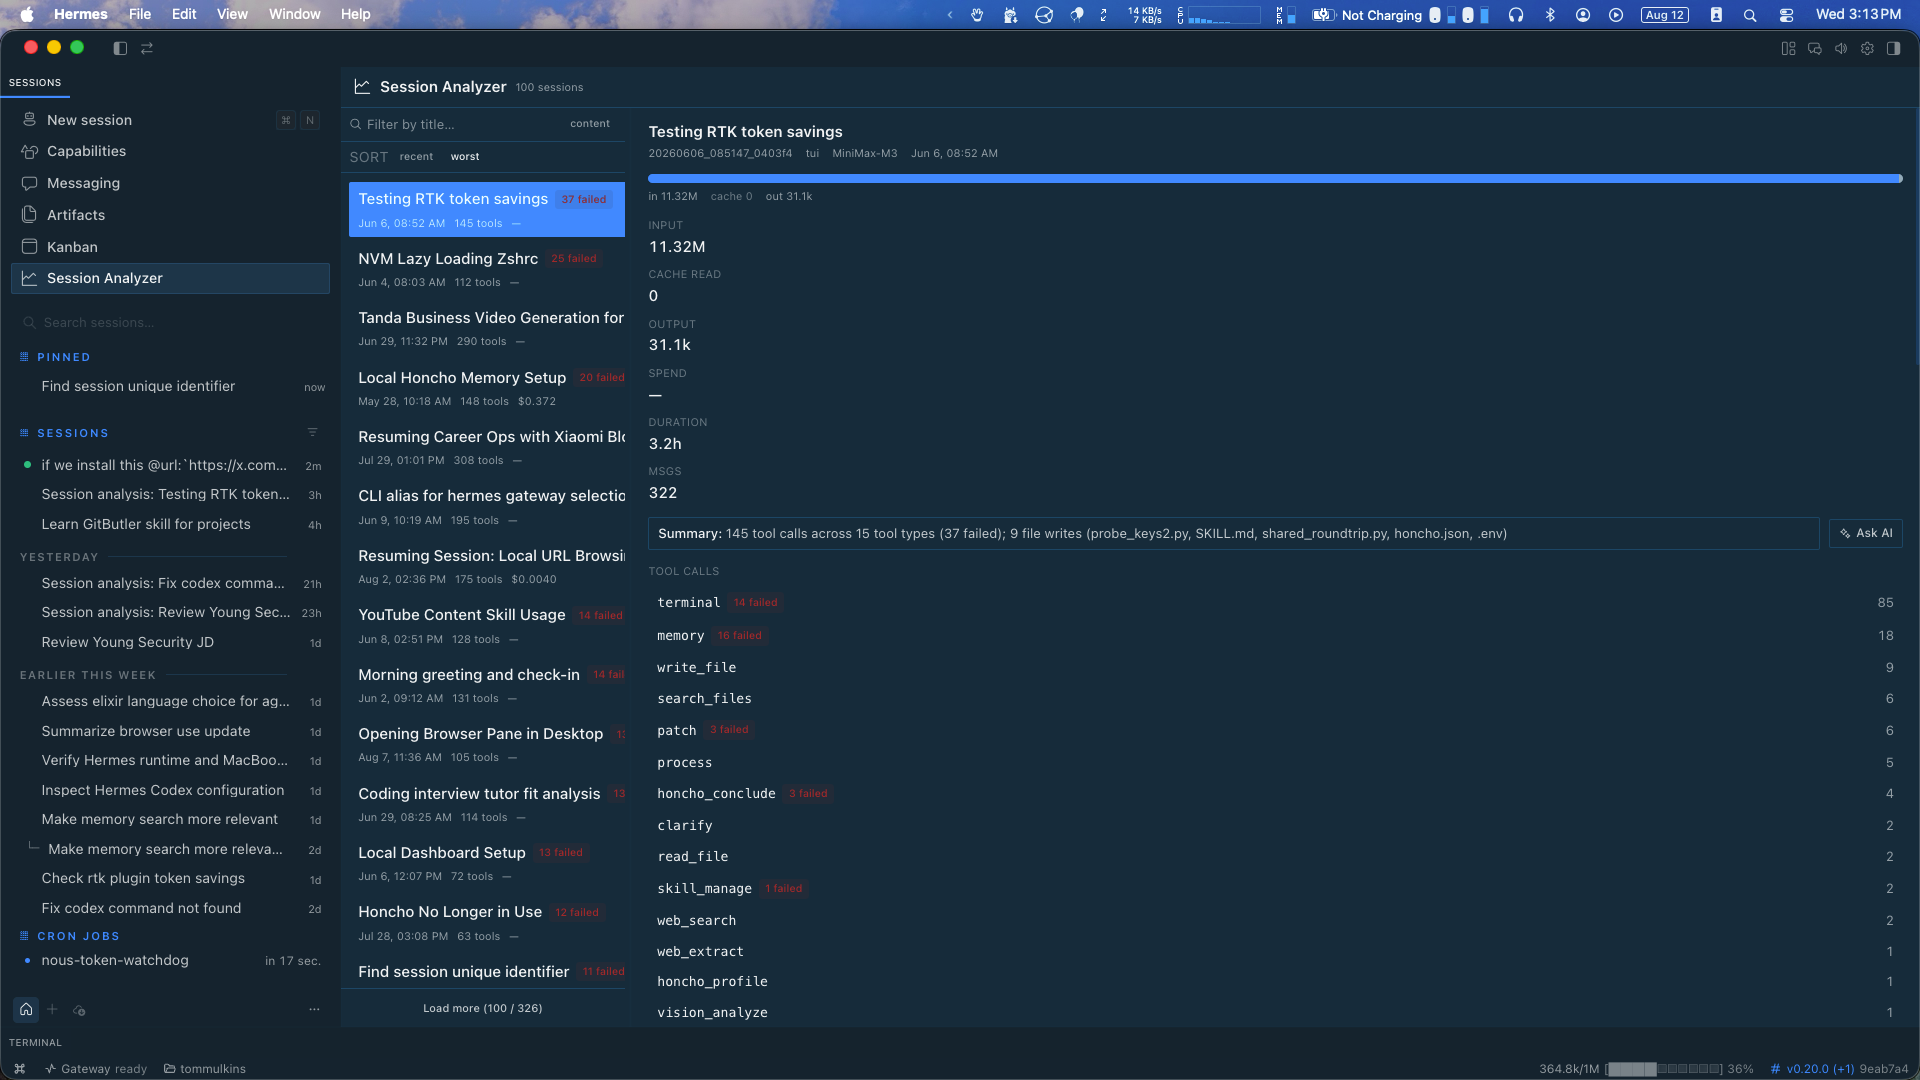
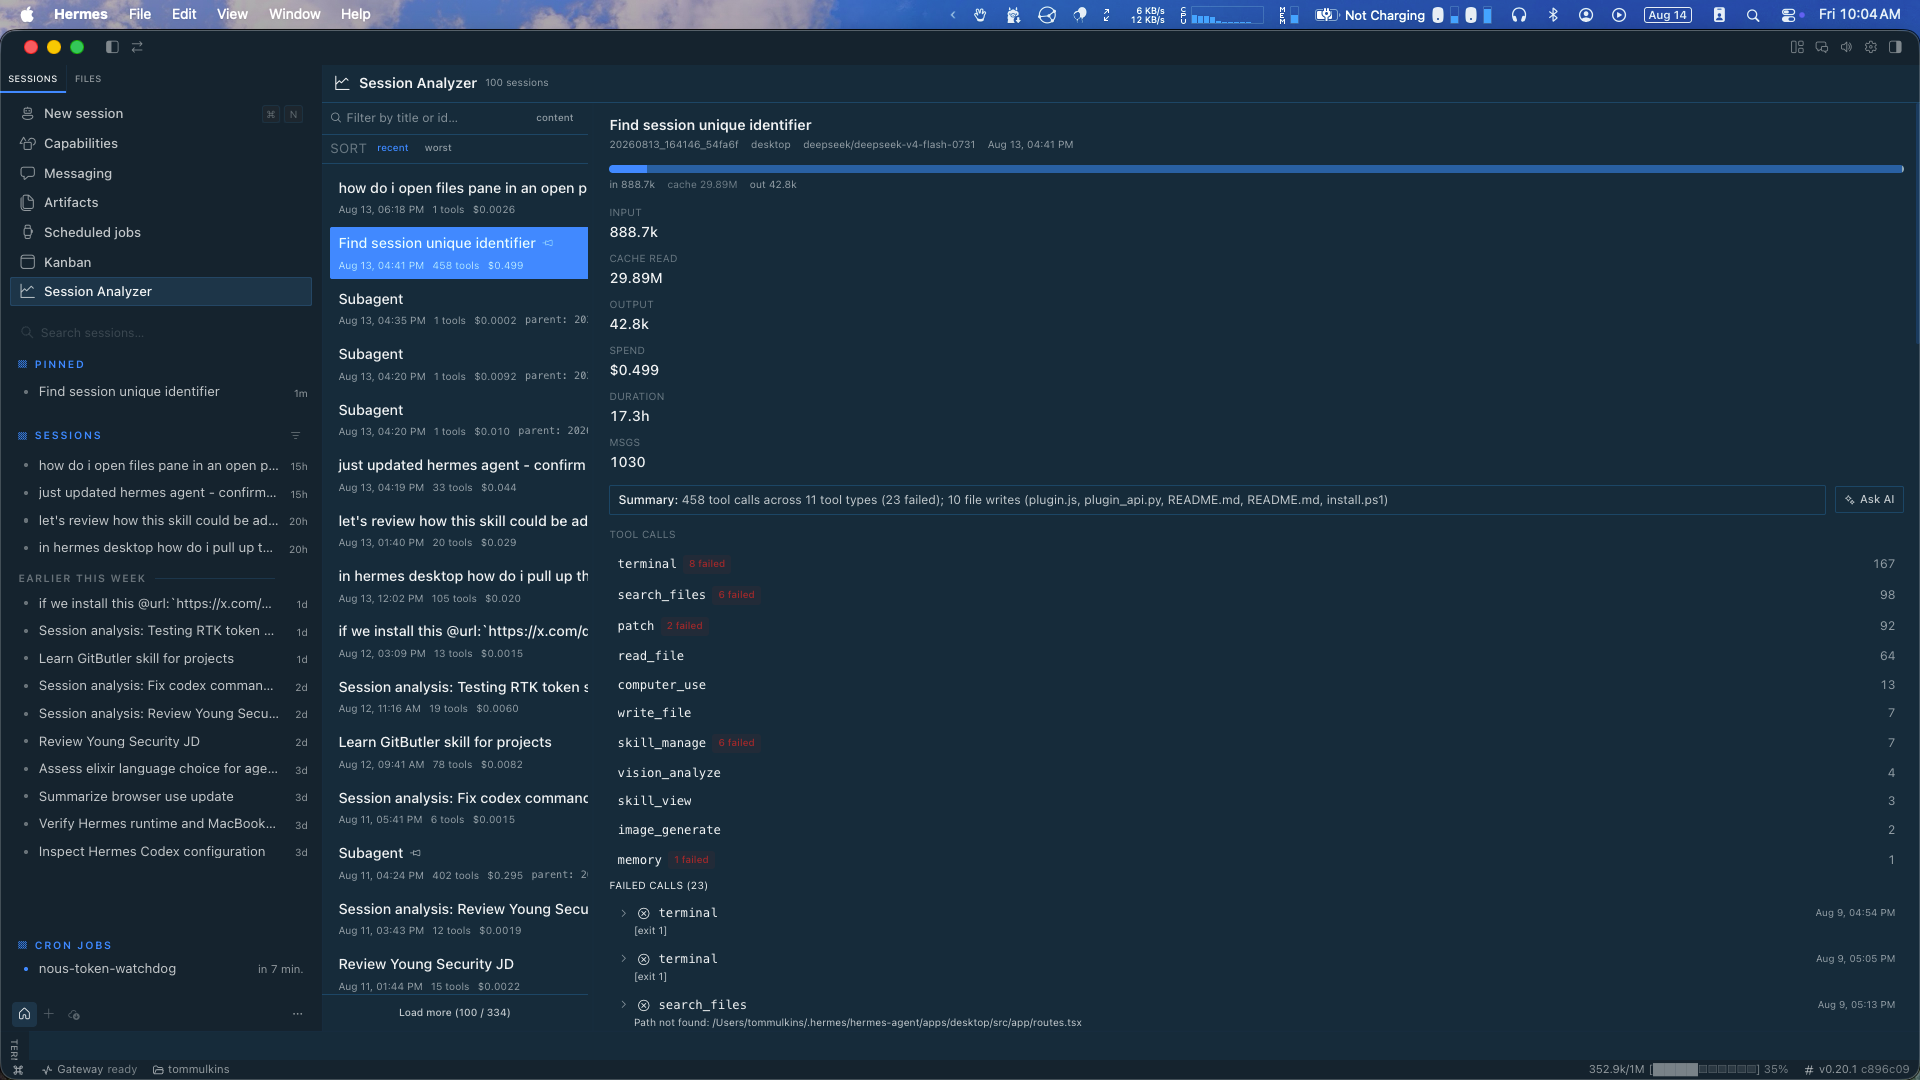
README: removed social preview from doc and formatting subagents announcement.

diff --git a/README.md b/README.md
@@ -7,8 +7,6 @@ one.
 
 ![Session Analyzer](assets/screenshot.png)
 
-![Social preview](assets/social-preview.png)
-
 ## What you get
 
 - **Session list** — title, date, tool count, cost; **Load more** up to 500
@@ -25,16 +23,17 @@ one.
 - **Failed calls** — every failed tool call with its error string, click to
   expand and see the tool's arguments
 - **Files touched** — reads and writes, written files highlighted
-- **Subagents** — every subagent spawned by the session: model, status
-  (completed / error), summary, duration, calls, input tokens — click one to
-  jump to its own session detail. Child sessions listed with tool count and
-  cost; unnamed subagent rows are labeled `Subagent` with their parent id.
 - **Ask AI** — one click opens a new session with a ready-made analysis
   prompt (copied to your clipboard). Paste, pick your judge model, send.
   No API keys, no config — it uses your existing Hermes.
 
 ![Subagents](assets/subagents.png)
 
+- **Subagents** — every subagent spawned by the session: model, status
+  (completed / error), summary, duration, calls, input tokens — click one to
+  jump to its own session detail. Child sessions listed with tool count and
+  cost; unnamed subagent rows are labeled `Subagent` with their parent id.
+  
 ## Requirements
 
 - Hermes Desktop (the plugin registers a sidebar row + ⌘K command)
